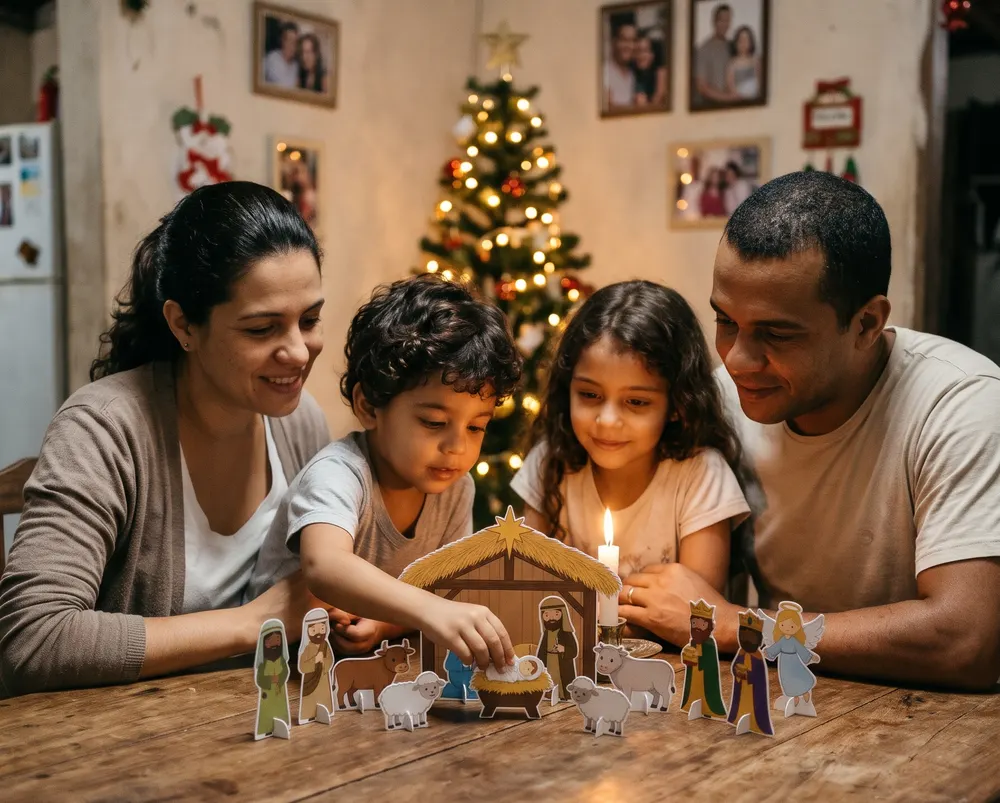
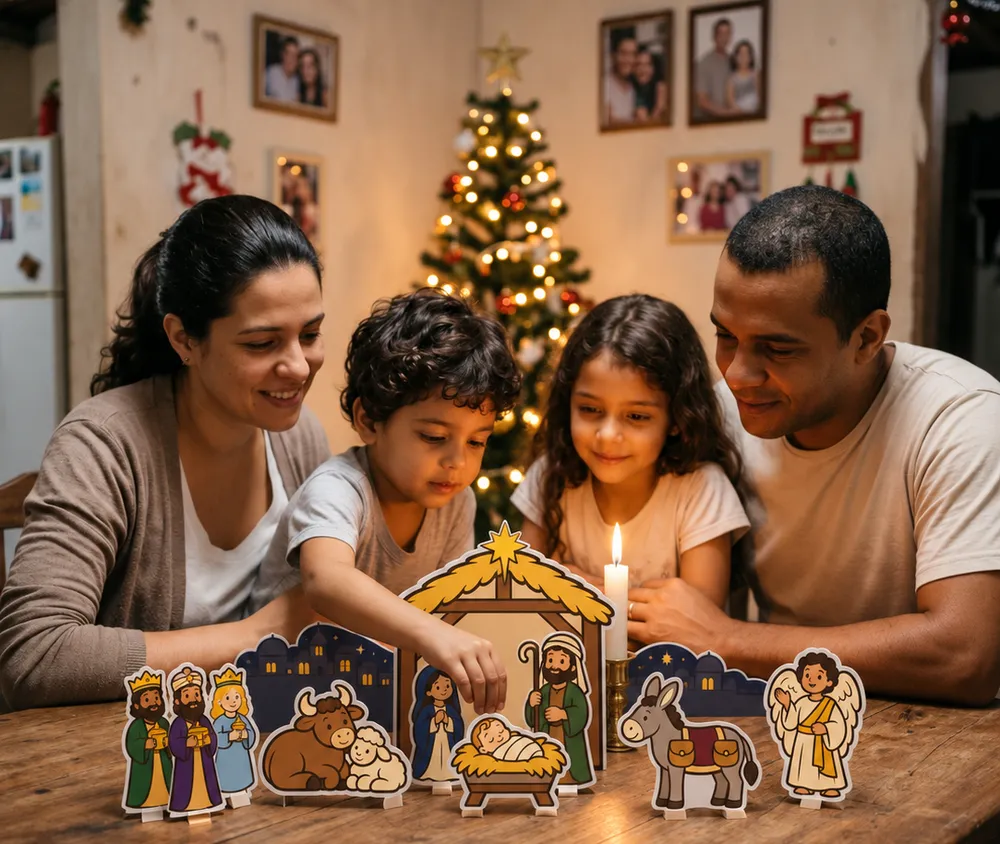
LP: nova imagem da familia com o presepio do kit
Claude-Session: https://claude.ai/code/session_01WzD5zwnddbh7cbSPyyVLyf

diff --git a/index.html b/index.html
@@ -558,7 +558,7 @@ dialog .close{display:block;margin:12px auto 0;background:var(--ouro-claro);bord
 <!-- FINAL -->
 <section class="final">
   <div class="wrap">
-    <figure class="final-shot"><img src="img/familia-final.webp" width="1000" height="803" loading="lazy" alt="Família reunida à mesa na noite de Natal, a criança colocando o Menino Jesus na manjedoura do presépio de papel"></figure>
+    <figure class="final-shot"><img src="img/familia-final.webp?v=2" width="1000" height="844" loading="lazy" alt="Família reunida à mesa na noite de Natal, a criança colocando o Menino Jesus na manjedoura do presépio de papel"></figure>
     <h2>Vamos preparar um Natal com Jesus no centro?</h2>
     <p class="tagline">Uma peça por noite. Um pedaço da história de cada vez.</p>
     <a class="cta js-checkout" data-pos="final" href="#oferta">Quero o Natal com Jesus no centro lá em casa <span class="arrow" aria-hidden="true">→</span></a>
